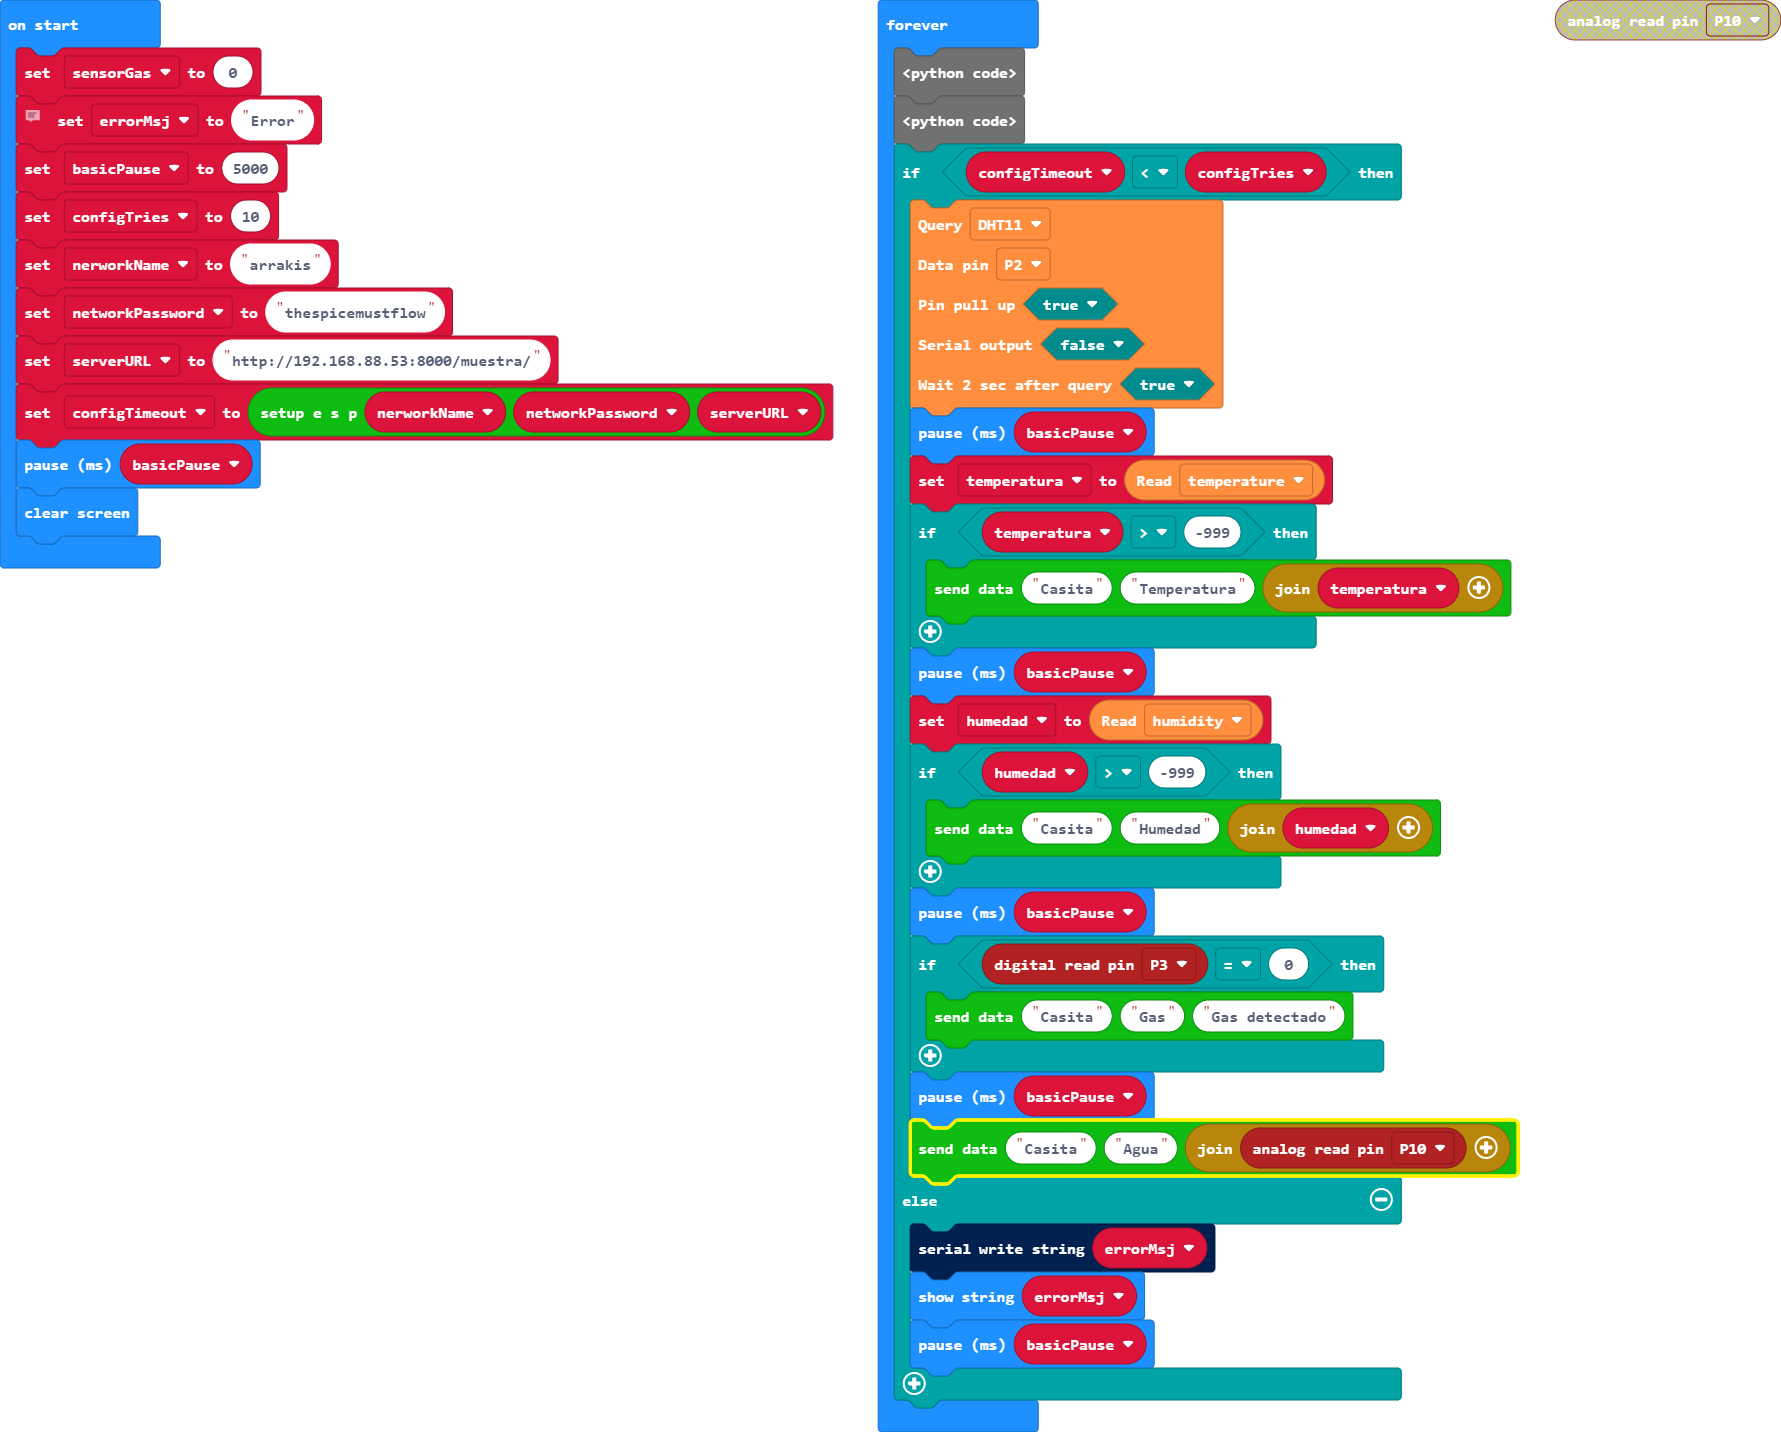
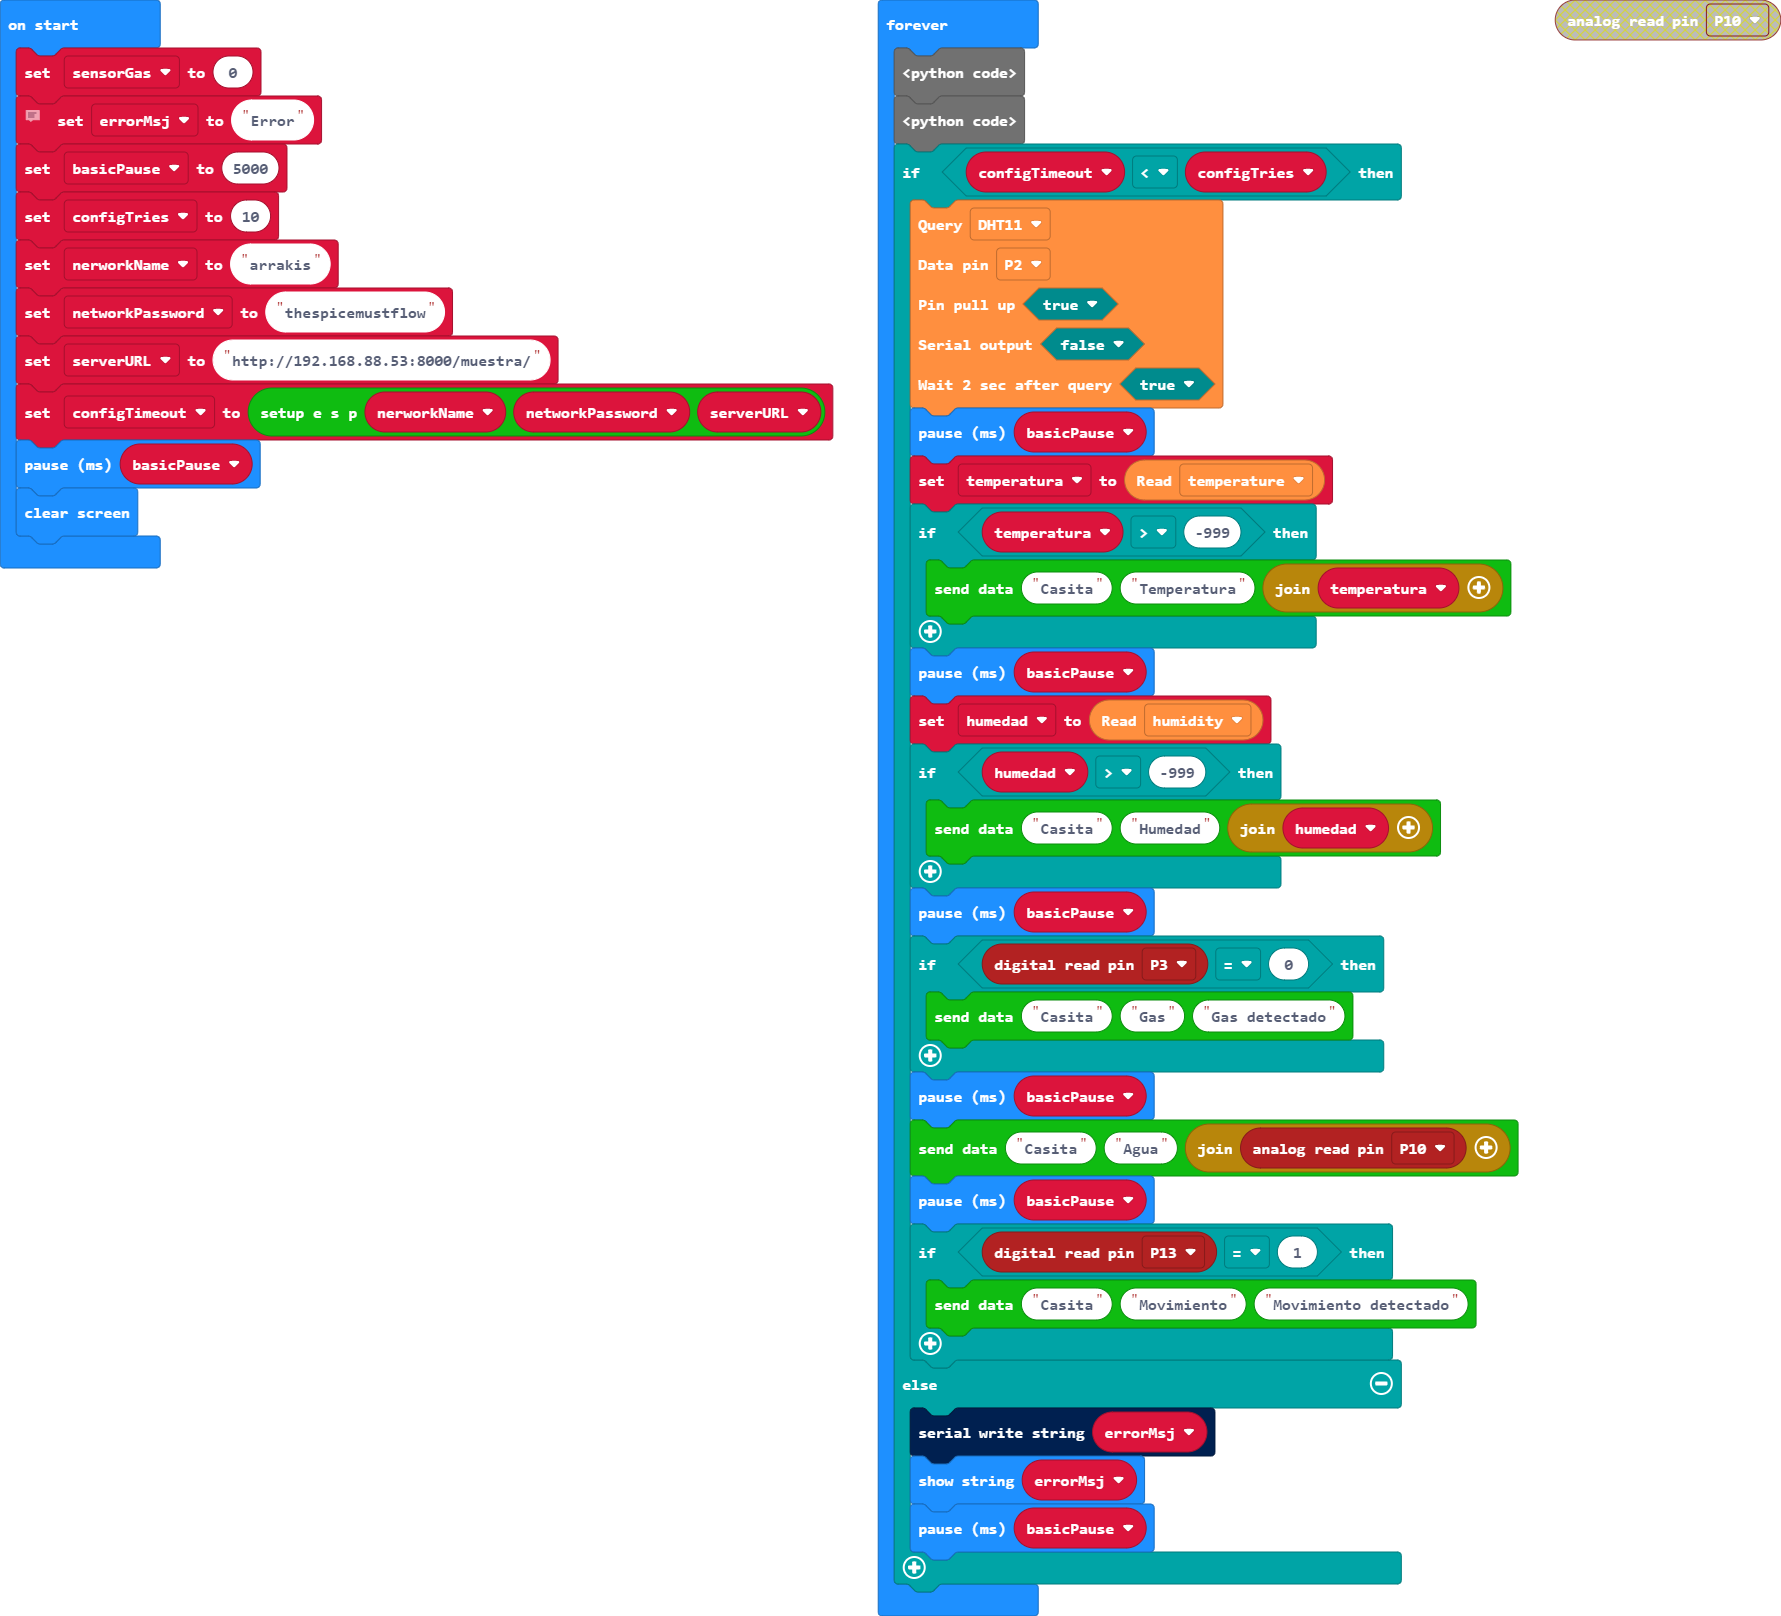
Update main.blocks, main.ts

Changed region(s): [[0.0, 0.0, 0.8647, 0.9832], [0.8647, 0.0, 1.0, 0.0307]]

diff --git a/main.ts b/main.ts
@@ -37,6 +37,10 @@ if (configTimeout < configTries) {
         }
         basic.pause(basicPause)
         custom.sendData("Casita", "Agua", "" + pins.analogReadPin(AnalogPin.P10))
+        basic.pause(basicPause)
+        if (pins.digitalReadPin(DigitalPin.P13) == 1) {
+            custom.sendData("Casita", "Movimiento", "Movimiento detectado")
+        }
     } else {
         serial.writeString(errorMsj)
         basic.showString(errorMsj)
